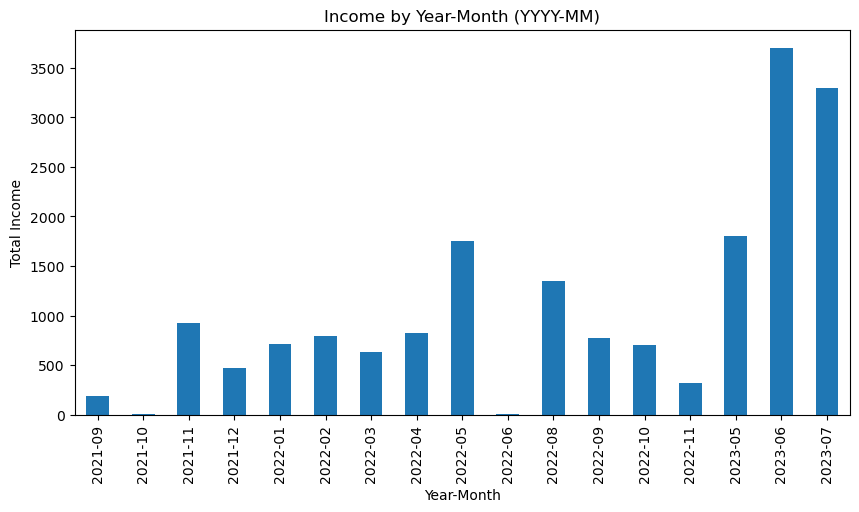
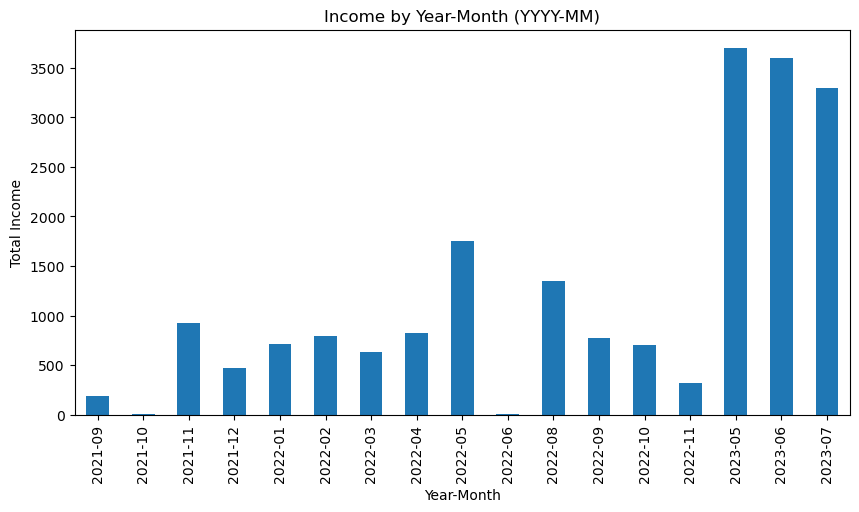
Updates
Updated "generate_report.py" to use the reportlab library.

Updated "income.csv" to account for income earned but not yet received (accrual accounting instead of cash accounting).

Changed region(s): [[0.8172, 0.0938, 0.9383, 0.4688]]

diff --git a/python_scripts/generate_report.py b/python_scripts/generate_report.py
@@ -3,6 +3,11 @@ import pandas as pd
 import matplotlib.pyplot as plt
 import analysis_functions as af
 from datetime import date
+from reportlab.lib.pagesizes import letter
+from reportlab.lib import colors
+from reportlab.lib.units import inch
+from reportlab.platypus import SimpleDocTemplate, Paragraph, Table, TableStyle, Image
+from reportlab.lib.styles import getSampleStyleSheet
 
 # Function to read data from CSV and group by year-month
 def read_and_group_data(file_path):
@@ -27,24 +32,35 @@ def generate_pdf_report(income_df_path, expenses_df_path):
     # Generate plots
     generate_plots(income_grouped, expenses_grouped, pd.read_csv(expenses_df_path))
 
-    # Create PDF file
-    pdf = FPDF()
-    pdf.add_page()
+    # Create PDF file using reportlab
+    doc = SimpleDocTemplate("./example_report.pdf", pagesize=letter)
 
-    # Set font and report header
-    pdf.set_font('Arial', 'B', 20)
-    pdf.cell(w=0, h=10, txt="Manu's Personal Finances Report", ln=1)
+    # Report title
+    styles = getSampleStyleSheet()
+    report_title = Paragraph("Manu's Personal Finances Report", styles['Title'])
+    report_date = Paragraph("Date: " + str(date.today()), styles['Normal'])
+    report_author = Paragraph("Author: Manu Malotra", styles['Normal'])
 
-    # Add report details
-    pdf.set_font('Arial', '', 16)
-    pdf.cell(w=30, h=10, txt="Date: ", ln=0)
-    pdf.cell(w=30, h=10, txt=str(date.today()), ln=1)  # Display current date
-    pdf.cell(w=30, h=10, txt="Author: ", ln=0)
-    pdf.cell(w=30, h=10, txt="Manu Malotra", ln=1)
+    # Table for income data
+    income_data = [['Year-Month', 'Income']]
+    for year_month, income in income_grouped.items():
+        income_data.append([year_month, income])
+
+    income_table = Table(income_data, colWidths=[3*inch, 1.5*inch])
+    income_table.setStyle(TableStyle([
+        ('BACKGROUND', (0, 0), (-1, 0), colors.gray),
+        ('TEXTCOLOR', (0, 0), (-1, 0), colors.whitesmoke),
+        ('ALIGN', (0, 0), (-1, -1), 'CENTER'),
+        ('FONTNAME', (0, 0), (-1, 0), 'Helvetica-Bold'),
+        ('BOTTOMPADDING', (0, 0), (-1, 0), 12),
+        ('BACKGROUND', (0, 1), (-1, -1), colors.beige),
+        ('GRID', (0, 0), (-1, -1), 1, colors.black)
+    ]))
+
+    # Add all elements to the PDF
+    elements = [report_title, report_date, report_author, income_table]
 
     # Add images to the PDF
-    image_width = 175
-    image_height = 0  # Automatic height to maintain aspect ratio
     image_paths = [
         './income_by_year_month.png',
         './expenses_by_year_month.png',
@@ -52,13 +68,14 @@ def generate_pdf_report(income_df_path, expenses_df_path):
         './net_income_by_year_month.png',
         './categorized_expenses_by_year_month.png',
         './average_expenses_by_year_month.png'
+
     ]
 
     for image_path in image_paths:
-        pdf.image(image_path, x=10, y=None, w=image_width, h=image_height, type='PNG')
+        elements.append(Image(image_path, width=6*inch, height=3*inch))
 
-    # Save the PDF report
-    pdf.output('./example.pdf', 'F')
+    # Build the PDF
+    doc.build(elements)
 
 if __name__ == "__main__":
     # Update the file paths accordingly

diff --git a/python_scripts/analysis_functions.py b/python_scripts/analysis_functions.py
@@ -293,7 +293,3 @@ def plot_expenses_rolling_average_bar_past_3_months(expenses_df):
                     transparent=False, 
                     facecolor='white', 
                     bbox_inches="tight")
-
-    # Display the plot
-    # plt.tight_layout()
-    # plt.show()
